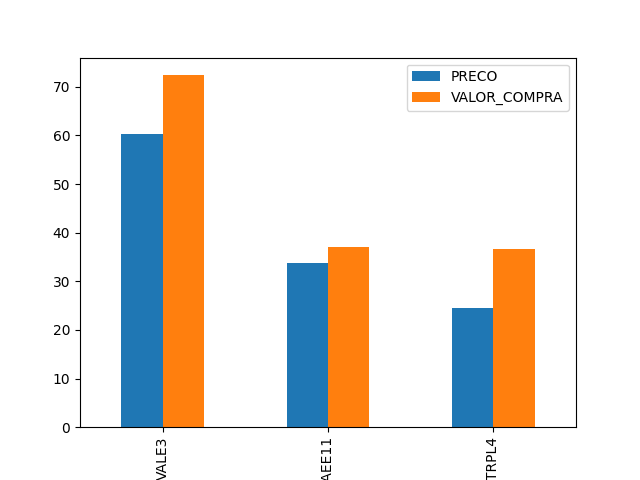
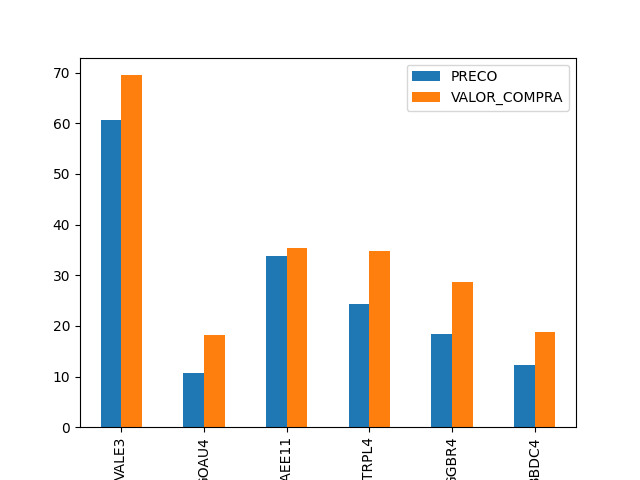
Upd

diff --git a/Python/ANALISE DE DADOS - ACOES/main.py b/Python/ANALISE DE DADOS - ACOES/main.py
@@ -57,7 +57,7 @@ class ACAO():
         df.loc[index,'PRECO']=aapl.info['currentPrice']
         df.loc[index,'VARIACAO']= round(aapl.info['52WeekChange']*100,2)
         df.loc[index,'PRECOJUSTO']= round(preco_justo,2)
-        df.loc[index,'VALOR_COMPRA']= round(preco_justo*0.94,2)
+        df.loc[index,'VALOR_COMPRA']= round(preco_justo*0.90,2)
         df.loc[index,'DIV.MEDIO']=float(dividendo_medio_5)
         df.loc[index,'VALOR_PROSPECTADO_DIV_MEDIO'] =   round((self.quantidade_de_acao_prospectada/aapl.info['currentPrice']) * dividendo_medio_5,2)
         df.loc[index,'VALOR_REAL_DIV_MEDIO']=round(self.carteira[index]*dividendo_medio_5,2)
@@ -106,13 +106,25 @@ class ACAO():
         # plt.show()
         plt.savefig(f'{tag}.png')
 
-
-
-CARTEIRA= [500,700,1500,600,0,0,0,0,0,0,0]
-ATIVOS =  ['CXSE3','BBSE3','BBAS3','TAEE11','CSMG3','UNIP6','TRPL4','VALE3']
-valor_prospectado = 17000
-ACAO(valor_prospectado,ATIVOS,CARTEIRA).start()
-# ACAO(valor_aplicado,ativos,CARTEIRA).lucro_por_preco("TRPL4")
+CARTEIRA = {
+    "CXSE3":500,
+    "BBSE3":700,
+    "BBAS3":1500,
+    "TAEE11":600,
+    "CSMG3":0,
+    "UNIP6":0,
+    "TRPL4":0,
+    "VALE3":0,
+    "BBDC4":0,
+    "GOAU4":0,
+    "GGBR4":0
+}
+ACOES = list(CARTEIRA.keys())
+VALORES = list(CARTEIRA.values())
+# VALORES = [1000 for x in range(0,9)]
+valor_prospectado = 30000
+ACAO(valor_prospectado,ACOES,VALORES).start()
+# # ACAO(valor_aplicado,ativos,CARTEIRA).lucro_por_preco("TRPL4")
 
 
 
